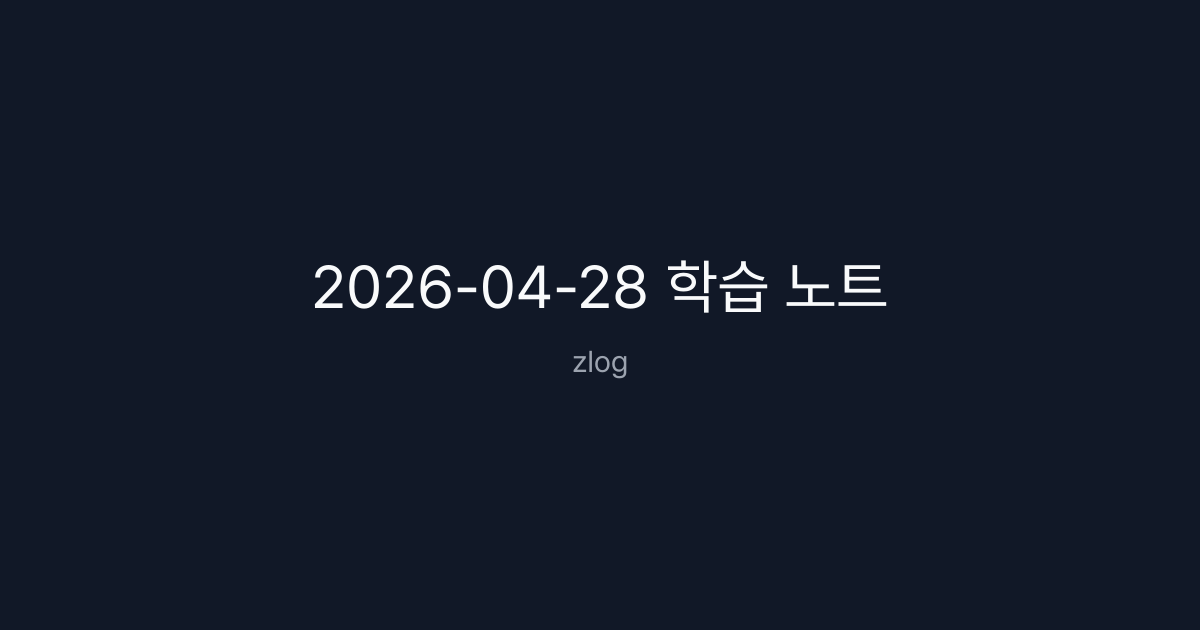
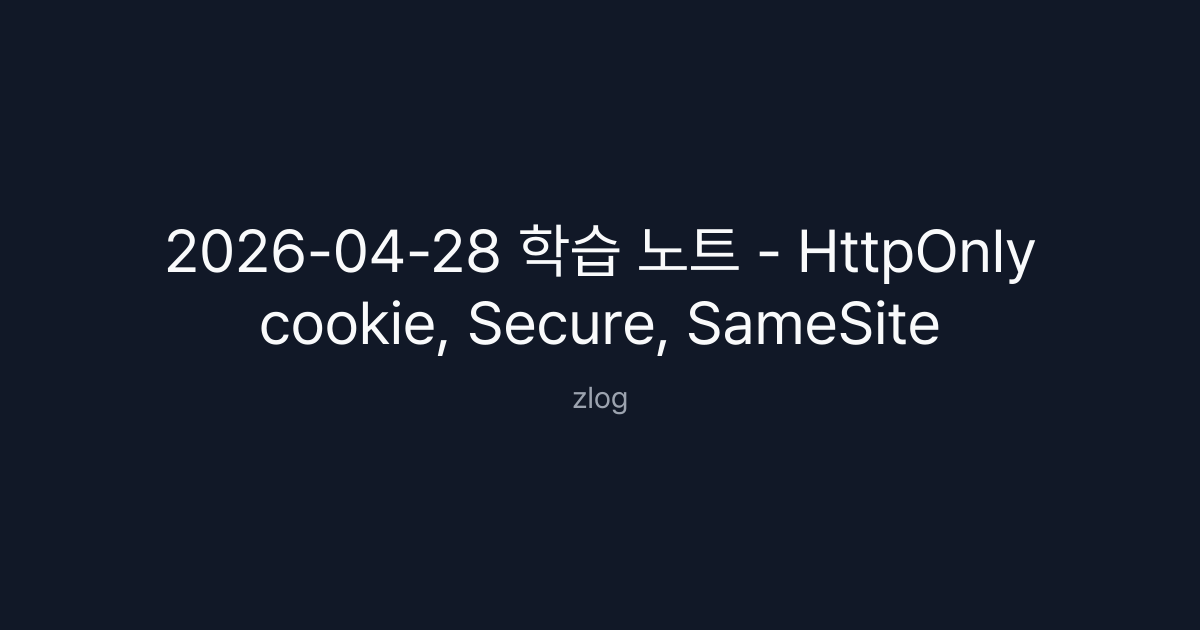
Updates

Changed region(s): [[0.1233, 0.3619, 0.8633, 0.6635]]

diff --git a/blog/study/2026-05-19/index.html b/blog/study/2026-05-19/index.html
@@ -1,0 +1,286 @@
+<!DOCTYPE html><html lang="ko"> <head><meta charset="UTF-8"><meta name="viewport" content="width=device-width, initial-scale=1.0"><meta name="generator" content="Astro v6.1.5"><link rel="icon" type="image/svg+xml" href="/favicon.svg"><title>2026-05-19 학습 노트 — CloudFront, OAC, CDN</title><meta name="description" content="정적 파일의 관리"><link rel="canonical" href="https://zlog.page/blog/study/2026-05-19/"><!-- OG --><meta property="og:type" content="website"><meta property="og:url" content="https://zlog.page/blog/study/2026-05-19/"><meta property="og:title" content="2026-05-19 학습 노트 — CloudFront, OAC, CDN"><meta property="og:description" content="정적 파일의 관리"><!-- Search Console --><meta name="google-site-verification" content="QL5oG6ROeQ_efrAdk4Xk9ZLbSRYdxWNyzD2FT7BFrmU"><meta name="naver-site-verification" content="d38c673504a43b7081a895abd046ec7cfaba76c4"><!-- Google Analytics --><script async src="https://www.googletagmanager.com/gtag/js?id=G-HJR3WF26N4"></script><script type="module">window.dataLayer=window.dataLayer||[];function a(){dataLayer.push(arguments)}a("js",new Date);a("config","G-HJR3WF26N4");</script><!-- Sitemap --><link rel="sitemap" href="/sitemap-index.xml"><!-- RSS --><link rel="alternate" type="application/rss+xml" title="RSS Feed" href="/rss.xml"><link rel="stylesheet" href="/_astro/BaseLayout.BnMqiMs0.css">
+<style>.toc-aside[data-astro-cid-2q5oecfc]{display:none}@media(min-width:1280px){.toc-aside[data-astro-cid-2q5oecfc]{display:block;position:fixed;top:5rem;left:calc(50% + 26rem);width:14rem}}
+</style></head> <body class="flex min-h-screen flex-col bg-white text-gray-900"> <header class="border-b border-gray-100"> <nav class="mx-auto flex max-w-3xl items-center justify-between px-6 py-5"> <a href="/" class="text-lg font-semibold tracking-tight">zlog</a> <div class="flex gap-6 text-sm text-gray-500"> <a href="/blog/" class="transition hover:text-gray-900">Blog</a> <a href="/retro/" class="transition hover:text-gray-900">Retro</a> <a href="/lab/" class="transition hover:text-gray-900">Lab</a> </div> </nav> </header> <main class="mx-auto w-full max-w-3xl flex-1 px-6 py-10">  <div class="relative" data-astro-cid-2q5oecfc> <article data-astro-cid-2q5oecfc> <header class="mb-10" data-astro-cid-2q5oecfc> <h1 class="mb-1 text-2xl font-semibold" data-astro-cid-2q5oecfc>2026-05-19 학습 노트 — CloudFront, OAC, CDN</h1> <p class="mb-3 text-sm text-gray-400" data-astro-cid-2q5oecfc>정적 파일의 관리</p> <div class="flex gap-3 text-xs text-gray-400" data-astro-cid-2q5oecfc> <time datetime="2026-05-19T00:00:00.000Z" data-astro-cid-2q5oecfc> 2026. 05. 19 </time> <span data-astro-cid-2q5oecfc>&middot;</span> <span data-astro-cid-2q5oecfc>16 min read</span> </div> <div class="mt-3 flex flex-wrap gap-2" data-astro-cid-2q5oecfc> <span class="rounded-full bg-gray-100 px-2.5 py-0.5 text-xs text-gray-500" data-astro-cid-2q5oecfc> study </span><span class="rounded-full bg-gray-100 px-2.5 py-0.5 text-xs text-gray-500" data-astro-cid-2q5oecfc> AWS </span><span class="rounded-full bg-gray-100 px-2.5 py-0.5 text-xs text-gray-500" data-astro-cid-2q5oecfc> CloudFront </span><span class="rounded-full bg-gray-100 px-2.5 py-0.5 text-xs text-gray-500" data-astro-cid-2q5oecfc> CDN </span><span class="rounded-full bg-gray-100 px-2.5 py-0.5 text-xs text-gray-500" data-astro-cid-2q5oecfc> 보안 </span> </div> </header> <div class="prose-custom" data-astro-cid-2q5oecfc>  <h1 id="정적-mp3-하나-호스팅하는데-왜-이렇게-길게-고민했나">정적 mp3 하나 호스팅하는데 왜 이렇게 길게 고민했나</h1>
+<p>ghworld 에 환경음 mp3 를 붙이는 단계에서, “이 파일 어디에 두지” 하나로 한참을 고민했다</p>
+<p>처음에는 “그냥 S3 에 올리고 public 으로 풀면 끝 아닌가” 싶었다<br/>
+근데 막상 결정을 하려고 하니 찝찝함이 남았다</p>
+<blockquote>
+<p>S3 URL 을 그대로 프론트엔드에 박는 게 정말 괜찮은가?<br/>
+누가 막 호출하면 비용은 어떻게 되나?<br/>
+한국 밖에서 접속하면 느리지 않나?<br/>
+CloudFront 를 끼면 뭐가 바뀌나? OAC 는 또 뭐고?</p>
+</blockquote>
+<p>질문이 끝없이 나왔다<br/>
+이번에는 그 질문에 답을 찾아가며 정리한 기록이다</p>
+<div class="separator">···</div>
+<h2 id="출발점--운영-환경-환경음이-무음이었다">출발점 — 운영 환경 환경음이 무음이었다</h2>
+<p>처음 발견한 건 사소한 증상이었다<br/>
+로컬에서는 환경음이 잘 들리는데 운영 환경에서는 무음이었다</p>
+<p>원인은 단순했다<br/>
+mp3 파일이 <code>.gitignore</code>에 걸려 git 에서 추적되지 않았고, Docker 이미지에도 포함되지 않았던 것</p>
+<p>해결을 위해서는 두 가지 방법이 있었다</p>
+<ol>
+<li>mp3 를 git 에 포함시켜 이미지 빌드에 포함시킨다</li>
+<li>정적 파일 호스팅을 별도 인프라(S3 / CDN) 로 분리한다</li>
+</ol>
+<p>정적 파일이 적다면 1 번도 나쁘지 않다<br/>
+근데 정적 파일은 환경음뿐 아니라 캐릭터, 아이템 등의 에셋 파일도 필요해질 예정이다<br/>
+”정적 파일은 정적 파일 인프라에 둔다” 라는 선을 지금 그어두는 게 맞다고 판단했다</p>
+<p>그래서 자연스럽게 다음 질문으로 넘어갔다<br/>
+<strong>”정적 파일을 어떻게 관리해야할까?“</strong></p>
+<h2 id="1-차-후보--s3-만-public-으로-노출">1 차 후보 — S3 만 public 으로 노출</h2>
+<p>가장 빠른 방법이다<br/>
+S3 버킷을 public read 로 풀고, 프론트엔드에서 <code>https://***.amazonaws.com/sounds/village-night.mp3</code> 같은 URL 을 직접 호출한다</p>
+<p>장점은 명확하다</p>
+<ul>
+<li>설정이 단순하다</li>
+<li>추가 비용 없음</li>
+</ul>
+<p>근데 단점이 있었다</p>
+<h3 id="단점-1-한국-밖-사용자에게-느리다">단점 1. 한국 밖 사용자에게 느리다</h3>
+<p>S3 버킷은 하나의 리전에 존재한다 (<code>ap-northeast-2</code> 서울)<br/>
+일본, 미국에서 접속하면 매번 서울까지 패킷이 다녀와야 한다<br/>
+정적 파일이 로드하는데 오래 걸리면 사용자 사용성이 많이 나빠진다</p>
+<h3 id="단점-2-origin-부하-직격">단점 2. origin 부하 직격</h3>
+<p>매 요청이 S3 에 그대로 닿는다<br/>
+유저 1 만 명이 마을에 들어와서 환경음을 동시에 받으면, S3 가 1 만 번 동일한 mp3 를 내보낸다<br/>
+캐싱이 되지 않는 구조다</p>
+<h3 id="단점-3-비용-폭주-위험--제일-심각한-문제이다">단점 3. 비용 폭주 위험 — 제일 심각한 문제이다</h3>
+<p>S3 egress 가 한국 리전 기준 대략 <code>$0.126/GB</code>다<br/>
+누가 악의적으로 mp3 URL 을 <code>curl</code> 루프로 박으면 (또는 그냥 봇이 긁어가면) 비용이 걷잡을 수 없이 커진다</p>
+<p>“public 정적 파일이라 어차피 공개인데?”라고 넘기기엔 문제가 있었다<br/>
+S3 는 “이 IP 가 좀 많이 가져가니까 잠깐 막을게” 같은 게 없다<br/>
+오는 요청은 다 받고, 다 청구한다</p>
+<h2 id="2-차-후보--cloudfront-를-앞단에-끼우기">2 차 후보 — CloudFront 를 앞단에 끼우기</h2>
+<p>여기서 CDN 이 왜 정적 파일 배포의 자연스러운 선택지처럼 여겨지는지 어느 정도 와닿았다</p>
+<h3 id="cdn--정적-파일을-전-세계-edge-에-흩뿌린다">CDN — 정적 파일을 전 세계 edge 에 흩뿌린다</h3>
+<p>CloudFront 는 전 세계 edge location 에 정적 파일 사본을 둔다<br/>
+사용자가 정적 파일을 요청하면, 가장 가까운 edge 가 응답한다</p>
+<p>흐름은 이렇다</p>
+<pre class="astro-code github-dark" style="background-color:#24292e;color:#e1e4e8;overflow-x:auto" tabindex="0" data-language="text"><code><span class="line"><span>[ 사용자 ] → [ 가까운 edge ] ──(캐시 HIT)──&gt; 200 응답 (origin 안 거침)</span></span>
+<span class="line"><span>                          │</span></span>
+<span class="line"><span>                          └─(캐시 MISS)──&gt; [ S3 origin ] → edge 캐시에 저장 → 200 응답</span></span></code></pre>
+<p>첫 호출만 origin (S3) 까지 다녀오고, 이후로는 edge 에서 끝난다<br/>
+캐시 TTL 을 24 시간으로 잡으면, 그 24 시간 동안 같은 edge 에서 발생하는 요청은 S3 를 거치지 않는다</p>
+<p><strong>결과적으로 origin 부하가 99.99% 가까이 줄어든다</strong><br/>
+edge 캐시 hit 비율이 높을수록 egress 비용이 낮아진다<br/>
+CloudFront 응답 헤더에 <code>X-Cache: Hit from cloudfront</code> / <code>Miss from cloudfront</code>가 박힌다</p>
+<h3 id="캐시는-무조건-좋은가--ttl-트레이드오프">캐시는 무조건 좋은가 — TTL 트레이드오프</h3>
+<p>CloudFront 의 <code>CachingOptimized</code> managed policy 를 쓰면 기본 TTL 이 하루다<br/>
+mp3 같이 잘 안 바뀌는 정적 파일은 적절하다고 판단했다</p>
+<p>근데 정적 파일명을 그대로 두고 내용만 갈아끼우면 24 시간 동안 edge 에는 옛날 mp3 가 남아있다<br/>
+<strong>정적 파일을 수정할 때는 파일명을 바꾸거나 (<code>village-night-v2.mp3</code>), CloudFront invalidation 을 호출해야 한다</strong></p>
+<p>이걸 모르면 “왜 새 파일이 안 보이지?” 로 한참 헤맬 수 있다</p>
+<h2 id="3-차--oac-까지-더하면-뭐가-달라지나">3 차 — OAC 까지 더하면 뭐가 달라지나</h2>
+<p>여기까지만 봐도 CloudFront 의 가치는 충분해 보였는데<br/>
+GPT 와 Gemini 한테 같이 검토를 시켜보니 Gemini 가 이런 말을 했다</p>
+<blockquote>
+<p>S3 를 public 으로 두면 무단 데이터 접근 위험이 있습니다<br/>
+OAC(Origin Access Control) 로 막아야 합니다</p>
+</blockquote>
+<p>처음엔 “음 그렇겠지” 했는데, 다시 보니까 우리 컨텍스트에서는 좀 어긋난 말이었다<br/>
+<strong>우리 정적 파일은 어차피 public 으로 모두에게 노출하려고 하는 파일이다</strong><br/>
+”무단 접근” 이라는 표현이 우리 케이스에는 안 맞는다</p>
+<p>그럼 OAC 는 왜 끼우나?</p>
+<h3 id="oac-가-실제로-하는-일">OAC 가 실제로 하는 일</h3>
+<p>OAC 는 CloudFront 가 S3 origin 을 호출할 때 AWS SigV4 서명을 붙여준다<br/>
+S3 Bucket Policy 는 “이 서명이 우리 CloudFront 에서 온 게 맞는지” 확인되면 통과시킨다</p>
+<pre class="astro-code github-dark" style="background-color:#24292e;color:#e1e4e8;overflow-x:auto" tabindex="0" data-language="json"><code><span class="line"><span style="color:#E1E4E8">{</span></span>
+<span class="line"><span style="color:#79B8FF">  &quot;Version&quot;</span><span style="color:#E1E4E8">: </span><span style="color:#9ECBFF">&quot;2012-10-17&quot;</span><span style="color:#E1E4E8">,</span></span>
+<span class="line"><span style="color:#79B8FF">  &quot;Statement&quot;</span><span style="color:#E1E4E8">: [{</span></span>
+<span class="line"><span style="color:#79B8FF">    &quot;Effect&quot;</span><span style="color:#E1E4E8">: </span><span style="color:#9ECBFF">&quot;Allow&quot;</span><span style="color:#E1E4E8">,</span></span>
+<span class="line"><span style="color:#79B8FF">    &quot;Principal&quot;</span><span style="color:#E1E4E8">: { </span><span style="color:#79B8FF">&quot;Service&quot;</span><span style="color:#E1E4E8">: </span><span style="color:#9ECBFF">&quot;cloudfront.amazonaws.com&quot;</span><span style="color:#E1E4E8"> },</span></span>
+<span class="line"><span style="color:#79B8FF">    &quot;Action&quot;</span><span style="color:#E1E4E8">: </span><span style="color:#9ECBFF">&quot;s3:GetObject&quot;</span><span style="color:#E1E4E8">,</span></span>
+<span class="line"><span style="color:#79B8FF">    &quot;Resource&quot;</span><span style="color:#E1E4E8">: </span><span style="color:#9ECBFF">&quot;arn:aws:s3:::***/*&quot;</span><span style="color:#E1E4E8">,</span></span>
+<span class="line"><span style="color:#79B8FF">    &quot;Condition&quot;</span><span style="color:#E1E4E8">: {</span></span>
+<span class="line"><span style="color:#79B8FF">      &quot;StringEquals&quot;</span><span style="color:#E1E4E8">: {</span></span>
+<span class="line"><span style="color:#79B8FF">        &quot;AWS:SourceArn&quot;</span><span style="color:#E1E4E8">: </span><span style="color:#9ECBFF">&quot;arn:aws:cloudfront::***:distribution/E***&quot;</span></span>
+<span class="line"><span style="color:#E1E4E8">      }</span></span>
+<span class="line"><span style="color:#E1E4E8">    }</span></span>
+<span class="line"><span style="color:#E1E4E8">  }]</span></span>
+<span class="line"><span style="color:#E1E4E8">}</span></span></code></pre>
+<p>결과적으로</p>
+<ul>
+<li><code>https://***.cloudfront.net/sounds/village-night.mp3</code> ← 됨</li>
+<li><code>https://***.amazonaws.com/sounds/village-night.mp3</code> ← 403</li>
+</ul>
+<p>같은 mp3 가 같은 S3 에 있는데, 직접 S3 URL 로는 못 가져온다</p>
+<h3 id="그래서">그래서?</h3>
+<p><strong>“URL 이 노출된다 = 접근할 수 있다” 가 아니다</strong></p>
+<p>S3 URL 이 어딘가에 새어나가도, 그 URL 로는 401/403 만 응답한다<br/>
+누가 강제로 origin 부하를 일으키려고 해도 진입점이 CloudFront 하나로 좁혀진다</p>
+<p><code>public_assets</code>이라도 진입점을 좁혀두면 정책 적용이 쉽다</p>
+<ul>
+<li>WAF 룰을 CloudFront 에만 붙이면 끝</li>
+<li>캐시 정책도 CloudFront 만 보면 끝</li>
+<li>비용 alert 도 CloudFront 메트릭 하나만 보면 끝</li>
+</ul>
+<p>“우회로가 없다” 는 게 별 거 아닌 것 같아도 운영에 들어가면 차이가 크다</p>
+<h2 id="그래서-ddos-도-막아주나">그래서 DDoS 도 막아주나?</h2>
+<p>여기서 한 가지 헷갈리기 쉬운 부분이 있다</p>
+<p>CloudFront 는 DDoS 를 완전히 차단해주지 않는다<br/>
+<strong>AWS Shield Standard</strong> 가 막는 건 Layer 3-4 공격이다<br/>
+SYN flood, UDP reflection 같은 류</p>
+<ul>
+<li>Layer 3-4 (네트워크 / 전송 계층) — Shield Standard 무료로 어느 정도 커버</li>
+<li>Layer 7 (HTTP flood, 봇이 정상 형태로 무한 요청) — <strong>Shield Standard 로는 못 막는다</strong>
+<ul>
+<li>WAF rate-limit 룰을 별도로 붙이거나</li>
+<li>Shield Advanced ($3,000/월~) 를 결합해야 한다</li>
+</ul>
+</li>
+</ul>
+<p>다만 Layer 7 공격이 와도 CloudFront 의 트래픽 분산 자체가 origin 보호에 효과가 있다<br/>
+edge 가 1 차 흡수해주는 구조라 origin 까지 다 도달하지는 않는다</p>
+<p>CloudFront 만으로는 “원천 차단” 까진 아니지만, <strong>무방비 S3 보다는 압도적으로 낫다</strong> 정도이다</p>
+
+
+
+
+
+
+
+
+
+
+
+
+
+
+
+
+
+
+
+
+
+
+
+
+
+
+
+
+
+
+
+
+
+
+
+<table><thead><tr><th style="text-align:left">위협</th><th style="text-align:left">S3 만</th><th style="text-align:left">CloudFront + OAC</th></tr></thead><tbody><tr><td style="text-align:left">일반 트래픽 (정상 사용자)</td><td style="text-align:left">매번 S3 부하</td><td style="text-align:left">edge 캐시 흡수</td></tr><tr><td style="text-align:left">Layer 3-4 DDoS (SYN flood 등)</td><td style="text-align:left">무방비</td><td style="text-align:left">Shield Standard 1 차 차단</td></tr><tr><td style="text-align:left">Layer 7 DDoS (HTTP flood)</td><td style="text-align:left">무방비 + 비용 폭주</td><td style="text-align:left">edge 분산</td></tr><tr><td style="text-align:left">비용 통제</td><td style="text-align:left">어렵다 (egress 직접)</td><td style="text-align:left">Budget alert + WAF rate-limit 으로 가드</td></tr><tr><td style="text-align:left">URL 노출 시 직접 origin 접근</td><td style="text-align:left">가능</td><td style="text-align:left">차단 (403)</td></tr></tbody></table>
+<h2 id="한국-사용자-latency-는-정말-빨라지나">한국 사용자 latency 는 정말 빨라지나?</h2>
+<p>“CDN 을 중간에 끼우면 다 빨라진다” 라고 단순하게 외우고 있었는데, 실제로는 한 가지 의외의 포인트가 있다</p>
+
+
+
+
+
+
+
+
+
+
+
+
+
+
+
+
+
+
+
+
+
+<table><thead><tr><th style="text-align:left">케이스</th><th style="text-align:left">대략 latency</th></tr></thead><tbody><tr><td style="text-align:left">S3 직접 호출</td><td style="text-align:left">30~50ms</td></tr><tr><td style="text-align:left">CloudFront 첫 호출 (cache MISS)</td><td style="text-align:left">40~60ms</td></tr><tr><td style="text-align:left">CloudFront 2 번째 이후 (cache HIT)</td><td style="text-align:left">5~15ms</td></tr></tbody></table>
+<p>cache MISS 일 때는 <strong>S3 직접 호출보다 살짝 더 느릴 수 있다</strong><br/>
+edge → S3 한 단계가 더 끼기 때문이다</p>
+<p>근데 한 번 캐시 처리가 되면 그 다음부터는 빠르다</p>
+<h2 id="gemini-의-일반론을-그대로-받지-않은-이유">Gemini 의 일반론을 그대로 받지 않은 이유</h2>
+<p>이번에 한 번 더 느꼈는데, AI 가 주는 보안 권고는 “일반적으로 맞는 말” 이긴 한데 <strong>내 컨텍스트가 그 일반론에 해당하는지</strong> 는 내가 판단해야 한다</p>
+<p>Gemini 의 “무단 데이터 접근 위험” 은</p>
+<ul>
+<li>사내 문서, 개인정보, 결제 정보 같은 비공개 정적 파일을 다룰 때는 맞는 말이다</li>
+<li>근데 우리는 <strong>모두에게 들려주려고 만든 환경음 mp3</strong> 다</li>
+<li>우리 컨텍스트의 진짜 위협은 “무단 접근” 이 아니라 “비용 폭주” 다</li>
+</ul>
+<p>같은 “S3 를 CloudFront 뒤로 숨기자” 라는 결론이라도, <strong>왜 숨기는가</strong> 의 답이 다르다</p>
+<ul>
+<li>Gemini - 파일이 새는 걸 막기 위해</li>
+<li>우리 케이스 - 정적 파일은 어차피 공개지만, <strong>진입점을 좁혀 비용·운영 통제권을 확보하기 위해</strong></li>
+</ul>
+<p>AI 의 권고를 그대로 박아넣기보다 “우리한테 그 권고가 왜 유효한가” 를 한 번 더 따져보는 습관이 필요하다</p>
+<h2 id="마이그레이션-절차">마이그레이션 절차</h2>
+<p>S3 만 쓰던 상태에서 CloudFront + OAC 로 옮길 때, 순서가 꼬이면 갑자기 정적 파일이 안 보이는 사고가 난다<br/>
+순서는 이렇다</p>
+<ol>
+<li><strong>CloudFront distribution 을 먼저 생성한다</strong>
+<ul>
+<li>origin = S3 버킷</li>
+<li>이 시점에는 Bucket Policy 를 public 그대로 둔다</li>
+</ul>
+</li>
+<li><strong>프론트엔드 코드의 정적 파일 base URL 을 CloudFront 도메인으로 교체한다</strong>
+<ul>
+<li>예: <code>NEXT_PUBLIC_ASSETS_BASE_URL</code> 환경변수</li>
+</ul>
+</li>
+<li><strong>운영 배포 후, 모든 정적 파일이 CloudFront 경유로 잘 뜨는지 확인한다</strong>
+<ul>
+<li><code>X-Cache: Hit from cloudfront</code> 헤더 확인</li>
+</ul>
+</li>
+<li><strong>마지막에</strong> Bucket Policy 를 OAC 전용으로 교체한다
+<ul>
+<li>이 시점부터 S3 URL 직접 호출은 403 이 된다</li>
+</ul>
+</li>
+</ol>
+<p>3 번을 건너뛰고 4 번을 먼저 하면, 만약 코드가 어딘가에서 아직 S3 URL 을 직접 부르고 있을 때 그 부분이 깨진다</p>
+<h2 id="이번-선택">이번 선택</h2>
+<ul>
+<li>정적 파일은 S3 에 둔다</li>
+<li>앞단에 CloudFront 를 끼운다 (캐시 + 진입점 단일화)</li>
+<li>OAC 로 S3 직접 접근을 막는다</li>
+</ul>
+<p>mp3 파일을 어떻게 관리할 지 생각하다가, “정적 파일 인프라” 자체를 어떻게 관리할 지 고민할 수 있었다<br/>
+앞으로 에셋들은 S3 에서 관리할 것이다</p>
+<h2 id="그런데-cloudfront-가-늘-정답은-아니다">그런데 CloudFront 가 늘 정답은 아니다</h2>
+<p>이번 프로젝트는</p>
+<ul>
+<li>이유는 모르겠지만 CloudFlare 집계에서 해외 접속이 집계되었고(봇일 가능성이 높긴 하다)</li>
+<li>정적 파일 수가 점점 늘어날 예정이며</li>
+<li>비용 통제권을 일찍 확보하고 싶었다</li>
+</ul>
+<p>위 조건이라 CloudFront 가 답이 되었다</p>
+<p>만약</p>
+<ul>
+<li>정적 파일이 2~3 개로 끝나고 추가될 일이 없고</li>
+<li>모든 사용자가 한 리전 안에서만 쓰고</li>
+<li>트래픽 자체가 무시할 만한 규모면</li>
+</ul>
+<p>S3 만 public 으로 노출하는 게 더 단순한 선택일 수 있다<br/>
+운영 비용 (CloudFront 도메인, 인증서, invalidation 관리) 이 정적 파일 규모를 넘어선다</p>
+<p>“CDN 은 무조건 좋다” 가 아니라 <strong>“CDN 을 활용할 때”</strong> 를 보는 시야가 필요하다</p>
+<h2 id="다음에-더-볼-것">다음에 더 볼 것</h2>
+<ul>
+<li><strong>CloudFront signed URL / signed cookie</strong></li>
+<li><strong>Cache-Control 헤더와 CloudFront 캐시 정책의 우선순위</strong></li>
+<li><strong>Lambda@Edge / CloudFront Functions</strong></li>
+<li><strong>AWS WAF rate-limit 룰</strong></li>
+<li><strong>HTTP/3 (QUIC)</strong></li>
+<li><strong>Cloudflare 와의 비교</strong></li>
+</ul>
+<h1 id="종합-회고">종합 회고</h1>
+<p>처음에는 “mp3 하나 어디 둘지” 의 고민이었는데, 한 번 파보니 CDN 의 본질 — 캐시, edge 분산, 진입점 단일화, 비용 통제 — 까지 줄줄이 연결됐다</p>
+<p>그리고 한 가지 큰 교훈</p>
+<blockquote>
+<p>AI 가 주는 보안 권고를 그대로 받지 말고<br/>
+”우리 컨텍스트에서 그 권고가 왜 유효한가” 를 한 번 더 묻자</p>
+</blockquote>
+<p>“S3 를 CloudFront 뒤로 숨기자” 라는 같은 결론이지만, <strong>우리한테 진짜 위협은 무단 접근이 아니라 비용 폭주였다</strong><br/>
+이 차이를 알고 결정하는 것과 모르고 결정하는 것은 다르다고 생각한다</p>  </div> <section class="mt-16 border-t border-gray-100 pt-10"> <script src="https://giscus.app/client.js" data-repo="zkzkzhzj/zlog" data-repo-id="R_kgDOR9wd0Q" data-category="General" data-category-id="DIC_kwDOR9wd0c4C6cB0" data-mapping="pathname" data-strict="0" data-reactions-enabled="1" data-emit-metadata="0" data-input-position="bottom" data-theme="light" data-lang="ko" crossorigin="anonymous" async></script> </section> </article> <aside class="toc-aside" data-astro-cid-2q5oecfc> <nav class="sticky top-8" data-astro-cid-2q5oecfc> <p class="mb-3 text-xs font-semibold tracking-wider text-gray-400 uppercase" data-astro-cid-2q5oecfc>
+목차
+</p> <ul class="space-y-1.5 text-[13px]" data-astro-cid-2q5oecfc> <li style="padding-left: -12px" data-astro-cid-2q5oecfc> <a href="#정적-mp3-하나-호스팅하는데-왜-이렇게-길게-고민했나" class="block text-gray-400 transition hover:text-gray-900" data-astro-cid-2q5oecfc> 정적 mp3 하나 호스팅하는데 왜 이렇게 길게 고민했나 </a> </li><li style="padding-left: 0px" data-astro-cid-2q5oecfc> <a href="#출발점--운영-환경-환경음이-무음이었다" class="block text-gray-400 transition hover:text-gray-900" data-astro-cid-2q5oecfc> 출발점 — 운영 환경 환경음이 무음이었다 </a> </li><li style="padding-left: 0px" data-astro-cid-2q5oecfc> <a href="#1-차-후보--s3-만-public-으로-노출" class="block text-gray-400 transition hover:text-gray-900" data-astro-cid-2q5oecfc> 1 차 후보 — S3 만 public 으로 노출 </a> </li><li style="padding-left: 12px" data-astro-cid-2q5oecfc> <a href="#단점-1-한국-밖-사용자에게-느리다" class="block text-gray-400 transition hover:text-gray-900" data-astro-cid-2q5oecfc> 단점 1. 한국 밖 사용자에게 느리다 </a> </li><li style="padding-left: 12px" data-astro-cid-2q5oecfc> <a href="#단점-2-origin-부하-직격" class="block text-gray-400 transition hover:text-gray-900" data-astro-cid-2q5oecfc> 단점 2. origin 부하 직격 </a> </li><li style="padding-left: 12px" data-astro-cid-2q5oecfc> <a href="#단점-3-비용-폭주-위험--제일-심각한-문제이다" class="block text-gray-400 transition hover:text-gray-900" data-astro-cid-2q5oecfc> 단점 3. 비용 폭주 위험 — 제일 심각한 문제이다 </a> </li><li style="padding-left: 0px" data-astro-cid-2q5oecfc> <a href="#2-차-후보--cloudfront-를-앞단에-끼우기" class="block text-gray-400 transition hover:text-gray-900" data-astro-cid-2q5oecfc> 2 차 후보 — CloudFront 를 앞단에 끼우기 </a> </li><li style="padding-left: 12px" data-astro-cid-2q5oecfc> <a href="#cdn--정적-파일을-전-세계-edge-에-흩뿌린다" class="block text-gray-400 transition hover:text-gray-900" data-astro-cid-2q5oecfc> CDN — 정적 파일을 전 세계 edge 에 흩뿌린다 </a> </li><li style="padding-left: 12px" data-astro-cid-2q5oecfc> <a href="#캐시는-무조건-좋은가--ttl-트레이드오프" class="block text-gray-400 transition hover:text-gray-900" data-astro-cid-2q5oecfc> 캐시는 무조건 좋은가 — TTL 트레이드오프 </a> </li><li style="padding-left: 0px" data-astro-cid-2q5oecfc> <a href="#3-차--oac-까지-더하면-뭐가-달라지나" class="block text-gray-400 transition hover:text-gray-900" data-astro-cid-2q5oecfc> 3 차 — OAC 까지 더하면 뭐가 달라지나 </a> </li><li style="padding-left: 12px" data-astro-cid-2q5oecfc> <a href="#oac-가-실제로-하는-일" class="block text-gray-400 transition hover:text-gray-900" data-astro-cid-2q5oecfc> OAC 가 실제로 하는 일 </a> </li><li style="padding-left: 12px" data-astro-cid-2q5oecfc> <a href="#그래서" class="block text-gray-400 transition hover:text-gray-900" data-astro-cid-2q5oecfc> 그래서? </a> </li><li style="padding-left: 0px" data-astro-cid-2q5oecfc> <a href="#그래서-ddos-도-막아주나" class="block text-gray-400 transition hover:text-gray-900" data-astro-cid-2q5oecfc> 그래서 DDoS 도 막아주나? </a> </li><li style="padding-left: 0px" data-astro-cid-2q5oecfc> <a href="#한국-사용자-latency-는-정말-빨라지나" class="block text-gray-400 transition hover:text-gray-900" data-astro-cid-2q5oecfc> 한국 사용자 latency 는 정말 빨라지나? </a> </li><li style="padding-left: 0px" data-astro-cid-2q5oecfc> <a href="#gemini-의-일반론을-그대로-받지-않은-이유" class="block text-gray-400 transition hover:text-gray-900" data-astro-cid-2q5oecfc> Gemini 의 일반론을 그대로 받지 않은 이유 </a> </li><li style="padding-left: 0px" data-astro-cid-2q5oecfc> <a href="#마이그레이션-절차" class="block text-gray-400 transition hover:text-gray-900" data-astro-cid-2q5oecfc> 마이그레이션 절차 </a> </li><li style="padding-left: 0px" data-astro-cid-2q5oecfc> <a href="#이번-선택" class="block text-gray-400 transition hover:text-gray-900" data-astro-cid-2q5oecfc> 이번 선택 </a> </li><li style="padding-left: 0px" data-astro-cid-2q5oecfc> <a href="#그런데-cloudfront-가-늘-정답은-아니다" class="block text-gray-400 transition hover:text-gray-900" data-astro-cid-2q5oecfc> 그런데 CloudFront 가 늘 정답은 아니다 </a> </li><li style="padding-left: 0px" data-astro-cid-2q5oecfc> <a href="#다음에-더-볼-것" class="block text-gray-400 transition hover:text-gray-900" data-astro-cid-2q5oecfc> 다음에 더 볼 것 </a> </li><li style="padding-left: -12px" data-astro-cid-2q5oecfc> <a href="#종합-회고" class="block text-gray-400 transition hover:text-gray-900" data-astro-cid-2q5oecfc> 종합 회고 </a> </li> </ul> </nav> </aside> </div>  </main> <footer class="mt-auto border-t border-gray-100 py-6 text-center text-xs text-gray-400">
+&copy; 2026 zlog
+</footer></body></html>

diff --git a/blog/study/2026-04-29/index.html b/blog/study/2026-04-29/index.html
@@ -1,6 +1,6 @@
-<!DOCTYPE html><html lang="ko"> <head><meta charset="UTF-8"><meta name="viewport" content="width=device-width, initial-scale=1.0"><meta name="generator" content="Astro v6.1.5"><link rel="icon" type="image/svg+xml" href="/favicon.svg"><title>2026-04-28 학습 노트</title><meta name="description" content="배우고 정리한 내용을 가볍게 기록한다."><link rel="canonical" href="https://zlog.page/blog/study/2026-04-29/"><!-- OG --><meta property="og:type" content="website"><meta property="og:url" content="https://zlog.page/blog/study/2026-04-29/"><meta property="og:title" content="2026-04-28 학습 노트"><meta property="og:description" content="배우고 정리한 내용을 가볍게 기록한다."><!-- Search Console --><meta name="google-site-verification" content="QL5oG6ROeQ_efrAdk4Xk9ZLbSRYdxWNyzD2FT7BFrmU"><meta name="naver-site-verification" content="d38c673504a43b7081a895abd046ec7cfaba76c4"><!-- Google Analytics --><script async src="https://www.googletagmanager.com/gtag/js?id=G-HJR3WF26N4"></script><script type="module">window.dataLayer=window.dataLayer||[];function a(){dataLayer.push(arguments)}a("js",new Date);a("config","G-HJR3WF26N4");</script><!-- Sitemap --><link rel="sitemap" href="/sitemap-index.xml"><!-- RSS --><link rel="alternate" type="application/rss+xml" title="RSS Feed" href="/rss.xml"><link rel="stylesheet" href="/_astro/BaseLayout.BnMqiMs0.css">
+<!DOCTYPE html><html lang="ko"> <head><meta charset="UTF-8"><meta name="viewport" content="width=device-width, initial-scale=1.0"><meta name="generator" content="Astro v6.1.5"><link rel="icon" type="image/svg+xml" href="/favicon.svg"><title>2026-04-28 학습 노트 - HttpOnly cookie, Secure, SameSite</title><meta name="description" content="배우고 정리한 내용을 가볍게 기록한다."><link rel="canonical" href="https://zlog.page/blog/study/2026-04-29/"><!-- OG --><meta property="og:type" content="website"><meta property="og:url" content="https://zlog.page/blog/study/2026-04-29/"><meta property="og:title" content="2026-04-28 학습 노트 - HttpOnly cookie, Secure, SameSite"><meta property="og:description" content="배우고 정리한 내용을 가볍게 기록한다."><!-- Search Console --><meta name="google-site-verification" content="QL5oG6ROeQ_efrAdk4Xk9ZLbSRYdxWNyzD2FT7BFrmU"><meta name="naver-site-verification" content="d38c673504a43b7081a895abd046ec7cfaba76c4"><!-- Google Analytics --><script async src="https://www.googletagmanager.com/gtag/js?id=G-HJR3WF26N4"></script><script type="module">window.dataLayer=window.dataLayer||[];function a(){dataLayer.push(arguments)}a("js",new Date);a("config","G-HJR3WF26N4");</script><!-- Sitemap --><link rel="sitemap" href="/sitemap-index.xml"><!-- RSS --><link rel="alternate" type="application/rss+xml" title="RSS Feed" href="/rss.xml"><link rel="stylesheet" href="/_astro/BaseLayout.BnMqiMs0.css">
 <style>.toc-aside[data-astro-cid-2q5oecfc]{display:none}@media(min-width:1280px){.toc-aside[data-astro-cid-2q5oecfc]{display:block;position:fixed;top:5rem;left:calc(50% + 26rem);width:14rem}}
-</style></head> <body class="flex min-h-screen flex-col bg-white text-gray-900"> <header class="border-b border-gray-100"> <nav class="mx-auto flex max-w-3xl items-center justify-between px-6 py-5"> <a href="/" class="text-lg font-semibold tracking-tight">zlog</a> <div class="flex gap-6 text-sm text-gray-500"> <a href="/blog/" class="transition hover:text-gray-900">Blog</a> <a href="/retro/" class="transition hover:text-gray-900">Retro</a> <a href="/lab/" class="transition hover:text-gray-900">Lab</a> </div> </nav> </header> <main class="mx-auto w-full max-w-3xl flex-1 px-6 py-10">  <div class="relative" data-astro-cid-2q5oecfc> <article data-astro-cid-2q5oecfc> <header class="mb-10" data-astro-cid-2q5oecfc> <h1 class="mb-1 text-2xl font-semibold" data-astro-cid-2q5oecfc>2026-04-28 학습 노트</h1> <p class="mb-3 text-sm text-gray-400" data-astro-cid-2q5oecfc>배우고 정리한 내용을 가볍게 기록한다.</p> <div class="flex gap-3 text-xs text-gray-400" data-astro-cid-2q5oecfc> <time datetime="2026-04-28T00:00:00.000Z" data-astro-cid-2q5oecfc> 2026. 04. 28 </time> <span data-astro-cid-2q5oecfc>&middot;</span> <span data-astro-cid-2q5oecfc>7 min read</span> </div> <div class="mt-3 flex flex-wrap gap-2" data-astro-cid-2q5oecfc> <span class="rounded-full bg-gray-100 px-2.5 py-0.5 text-xs text-gray-500" data-astro-cid-2q5oecfc> study </span> </div> </header> <div class="prose-custom" data-astro-cid-2q5oecfc>  <h1 id="공부한-내용을-짧게-기록한다">공부한 내용을 짧게 기록한다</h1>
+</style></head> <body class="flex min-h-screen flex-col bg-white text-gray-900"> <header class="border-b border-gray-100"> <nav class="mx-auto flex max-w-3xl items-center justify-between px-6 py-5"> <a href="/" class="text-lg font-semibold tracking-tight">zlog</a> <div class="flex gap-6 text-sm text-gray-500"> <a href="/blog/" class="transition hover:text-gray-900">Blog</a> <a href="/retro/" class="transition hover:text-gray-900">Retro</a> <a href="/lab/" class="transition hover:text-gray-900">Lab</a> </div> </nav> </header> <main class="mx-auto w-full max-w-3xl flex-1 px-6 py-10">  <div class="relative" data-astro-cid-2q5oecfc> <article data-astro-cid-2q5oecfc> <header class="mb-10" data-astro-cid-2q5oecfc> <h1 class="mb-1 text-2xl font-semibold" data-astro-cid-2q5oecfc>2026-04-28 학습 노트 - HttpOnly cookie, Secure, SameSite</h1> <p class="mb-3 text-sm text-gray-400" data-astro-cid-2q5oecfc>배우고 정리한 내용을 가볍게 기록한다.</p> <div class="flex gap-3 text-xs text-gray-400" data-astro-cid-2q5oecfc> <time datetime="2026-04-28T00:00:00.000Z" data-astro-cid-2q5oecfc> 2026. 04. 28 </time> <span data-astro-cid-2q5oecfc>&middot;</span> <span data-astro-cid-2q5oecfc>7 min read</span> </div> <div class="mt-3 flex flex-wrap gap-2" data-astro-cid-2q5oecfc> <span class="rounded-full bg-gray-100 px-2.5 py-0.5 text-xs text-gray-500" data-astro-cid-2q5oecfc> study </span> </div> </header> <div class="prose-custom" data-astro-cid-2q5oecfc>  <h1 id="공부한-내용을-짧게-기록한다">공부한 내용을 짧게 기록한다</h1>
 <h2 id="httponly-cookie-secure-samesite">HttpOnly cookie, Secure, SameSite</h2>
 <h3 id="기억할-점">기억할 점</h3>
 <p>기존에는 토큰을 LocalStorage에 평문으로 저장<br/>

diff --git a/blog/study/index.html b/blog/study/index.html
@@ -8,6 +8,6 @@ Study
 English
 </a> <a href="/blog/book/" class="border-b-2 border-transparent px-3 py-2 text-sm text-gray-400 transition hover:text-gray-600">
 Book
-</a> </div> <ul class="flex flex-col gap-1"> <li> <a href="/blog/study/2026-04-29/" class="group flex items-baseline justify-between gap-4 rounded-md px-3 py-3 transition hover:bg-gray-50"> <div> <h2 class="text-[15px] text-gray-700 group-hover:text-gray-900"> 2026-04-28 학습 노트 </h2> <p class="mt-1 text-xs text-gray-400"> 배우고 정리한 내용을 가볍게 기록한다. </p> </div> <time class="shrink-0 text-xs text-gray-400"> 2026. 04. 28 </time> </a> </li> </ul> </main> <footer class="mt-auto border-t border-gray-100 py-6 text-center text-xs text-gray-400">
+</a> </div> <ul class="flex flex-col gap-1"> <li> <a href="/blog/study/2026-05-19/" class="group flex items-baseline justify-between gap-4 rounded-md px-3 py-3 transition hover:bg-gray-50"> <div> <h2 class="text-[15px] text-gray-700 group-hover:text-gray-900"> 2026-05-19 학습 노트 — CloudFront, OAC, CDN </h2> <p class="mt-1 text-xs text-gray-400"> 정적 파일의 관리 </p> </div> <time class="shrink-0 text-xs text-gray-400"> 2026. 05. 19 </time> </a> </li><li> <a href="/blog/study/2026-04-29/" class="group flex items-baseline justify-between gap-4 rounded-md px-3 py-3 transition hover:bg-gray-50"> <div> <h2 class="text-[15px] text-gray-700 group-hover:text-gray-900"> 2026-04-28 학습 노트 - HttpOnly cookie, Secure, SameSite </h2> <p class="mt-1 text-xs text-gray-400"> 배우고 정리한 내용을 가볍게 기록한다. </p> </div> <time class="shrink-0 text-xs text-gray-400"> 2026. 04. 28 </time> </a> </li> </ul> </main> <footer class="mt-auto border-t border-gray-100 py-6 text-center text-xs text-gray-400">
 &copy; 2026 zlog
 </footer></body></html>